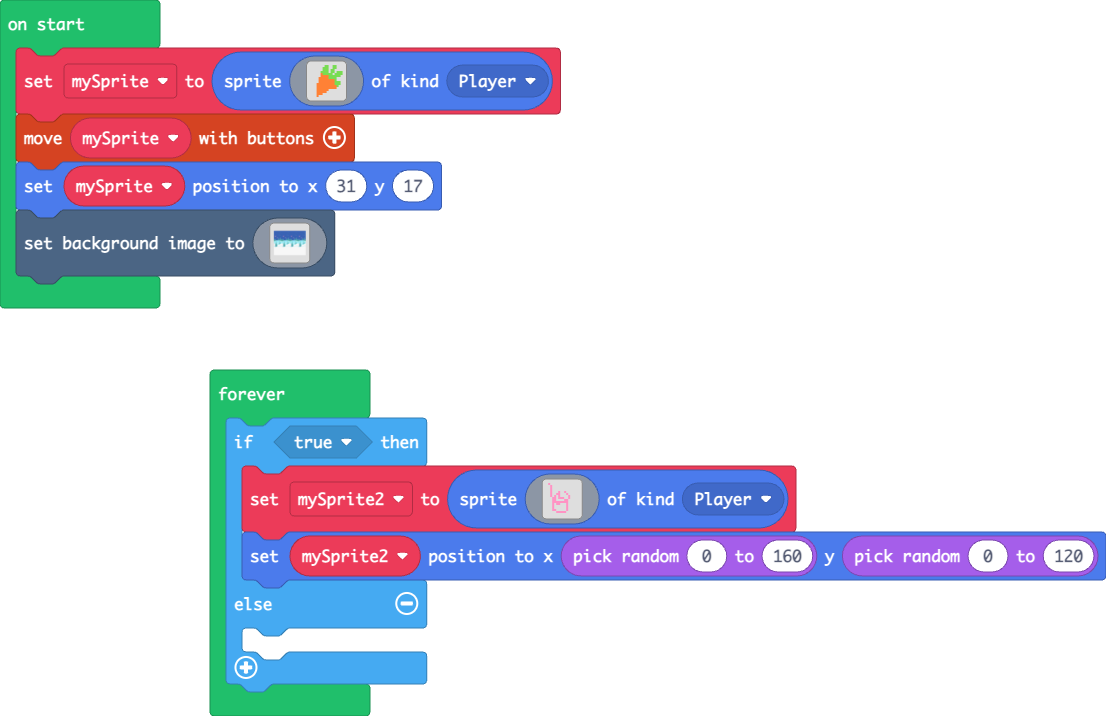
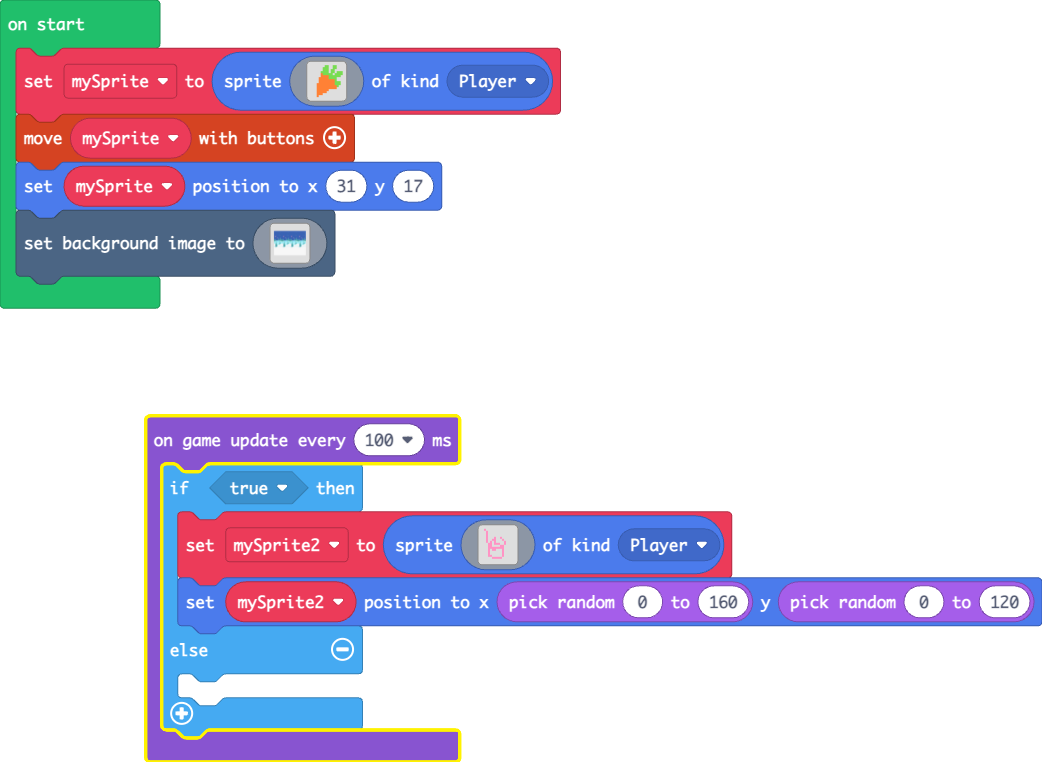
Update main.blocks, main.ts

Changed region(s): [[0.1228, 0.4916, 1.0, 1.0], [0.0, 0.0, 0.5528, 0.4302]]

diff --git a/main.ts b/main.ts
@@ -141,7 +141,7 @@ scene.setBackgroundImage(img`
     1111111111111111111111111111111111111111111111111111111111111111111111111111111111111111111111111111111111111111111111111111111111111111111111111111111111111111
     1111111111111111111111111111111111111111111111111111111111111111111111111111111111111111111111111111111111111111111111111111111111111111111111111111111111111111
     `)
-forever(function () {
+game.onUpdateInterval(100, function () {
     if (true) {
         mySprite2 = sprites.create(img`
             . 3 . . . . . . . . . . . . . . 
